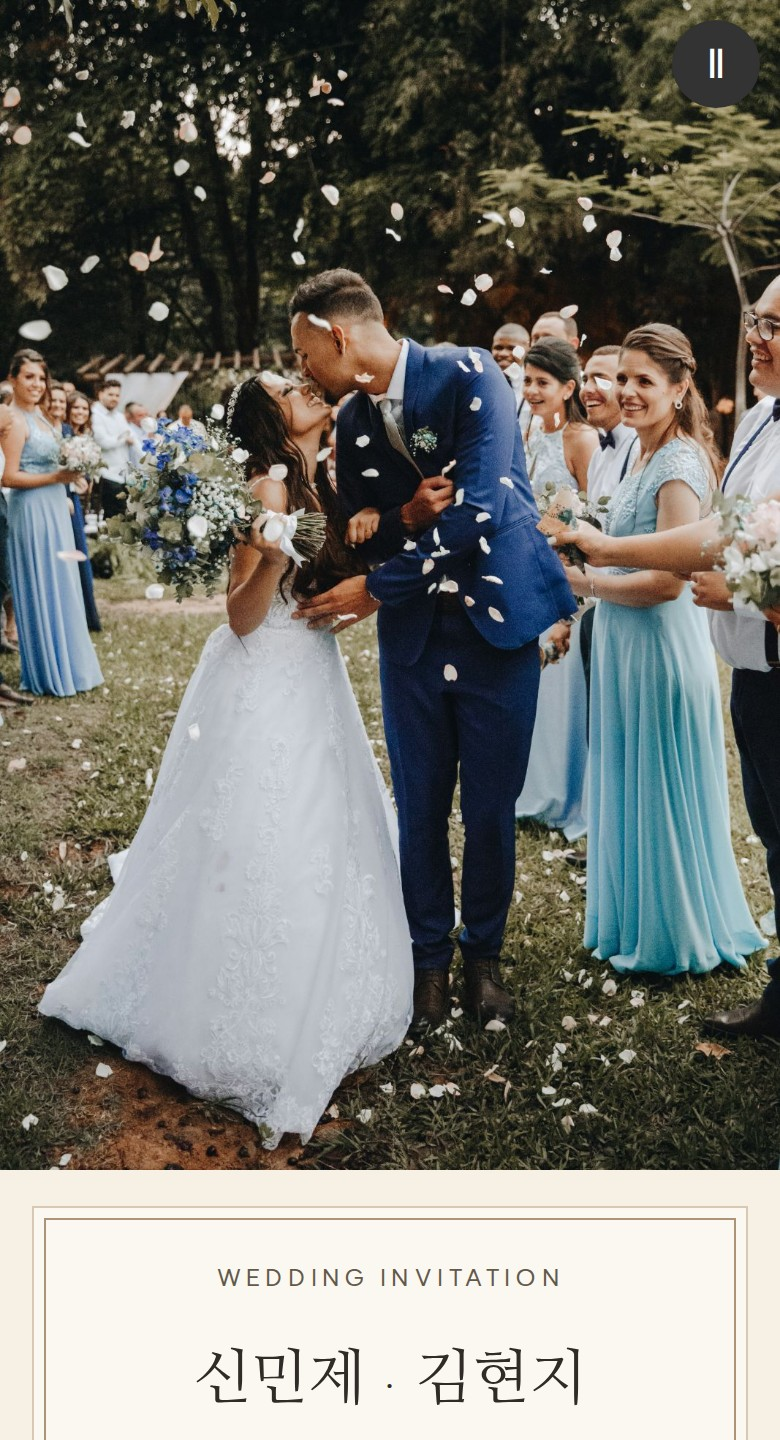
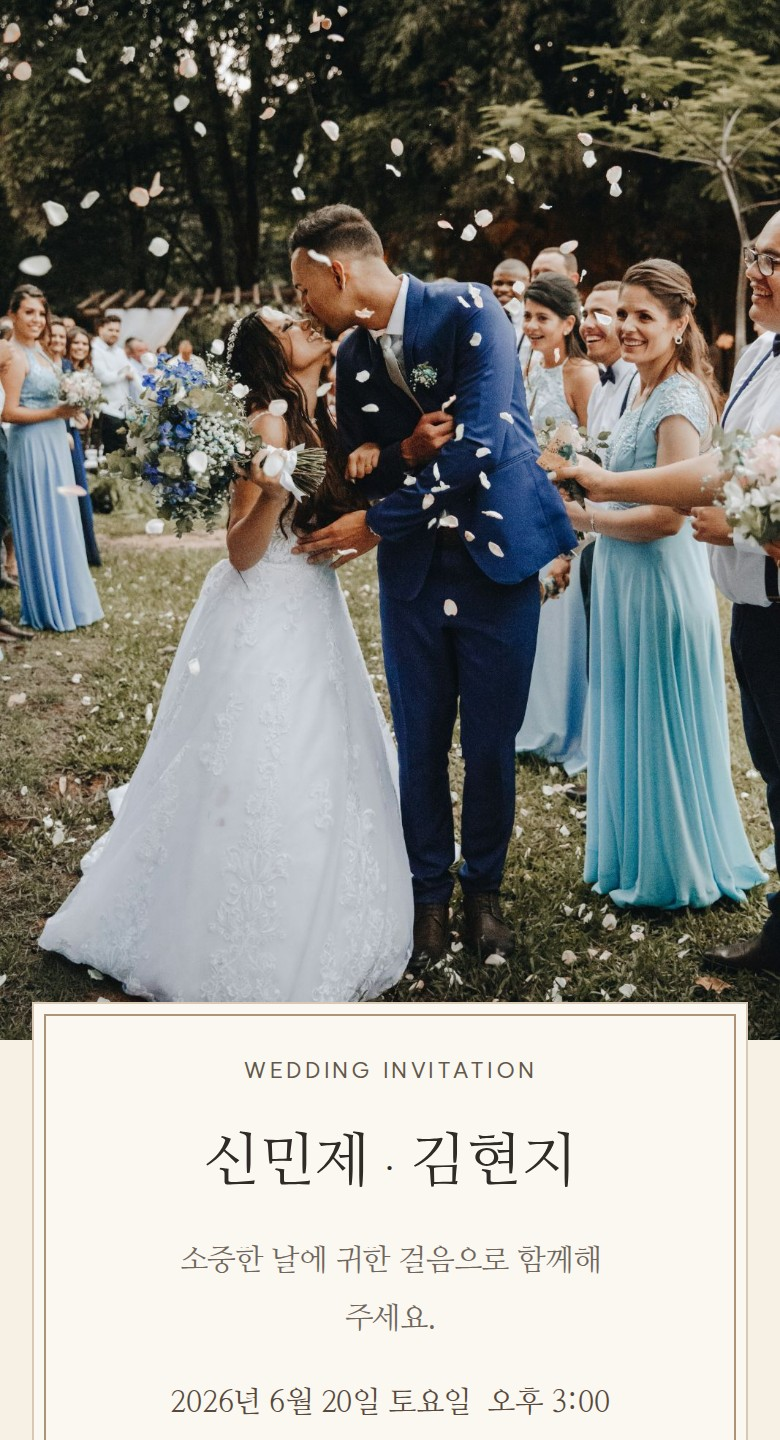
앱 홈 청첩장 미리보기 이미지 교체 (#130)
* 가상 청첩장 테마 미리보기 캡처 전환

* 승인된 신민제·김현지 샘플 캡처 원본 검증

* 모바일 청첩장 미리보기 승인 샘플 이미지 교체

diff --git a/apps/mobile/assets/editorial/README.md b/apps/mobile/assets/editorial/README.md
@@ -11,9 +11,9 @@
 
 모두 저장소에 이미 존재하던 개별 원본 에셋을 모바일 앱 번들로 복사한 것입니다. 인물은 `public/images/home-wedding/provenance.json`에 기록된 가상의 AI 생성 샘플이며 실제 사용자 사진이 아닙니다.
 
-모바일 홈 `WeddingIntroHero`는 `../theme-previews/simple.jpg`, `../theme-previews/romantic.jpg`의 신민제·김현지 공개 샘플 캡처를 재사용합니다. 홈은 사진·본문이 함께 보이도록 중앙·하단 기준 3:4 크롭으로 표시하며, 5종 갤러리에서는 원본 비율의 실제 디자인을 비교할 수 있습니다.
+모바일 홈 `WeddingIntroHero`는 `../theme-previews/simple.jpg`, `../theme-previews/romantic.jpg`의 신민제·김현지 샘플 캡처를 재사용합니다. 홈은 사진·본문이 함께 보이도록 중앙·하단 기준 3:4 크롭으로 표시하며, 5종 갤러리에서는 원본 비율로 디자인을 비교할 수 있습니다.
 
-각 청첩장의 실제 디자인 미리보기는 `../theme-previews/*.jpg`를 사용합니다. 5개 미리보기는 `scripts/capture-clean-wedding-previews.mjs`로 실제 샘플 화면을 재캡처한 780×1440 JPG이며, Next.js 개발 표시와 스크롤바가 제외되어 있습니다. 갤러리에는 원본 390:720 비율을 적용했습니다.
+테마 미리보기는 `../theme-previews/*.jpg`를 사용합니다. `scripts/capture-clean-wedding-previews.mjs`에서 재사용 승인을 받은 공개 샘플의 이름·테마·표지 사진 저장 경로를 확인한 후 780×1440 JPG 5장을 캡처합니다. 갤러리에는 원본 390:720 비율을 적용했습니다.
 
 색상, 타이포그래피, 테마 가격 및 기간 정책은 각각 `src/constants/theme.ts`, `src/components/AppText.tsx`, `src/lib/invitationProductPolicy.ts`에 정의된 값을 사용합니다. 앱의 조작 아이콘은 별도 비트맵을 만들지 않고 프로젝트에 포함된 Ionicons를 사용합니다.
 
